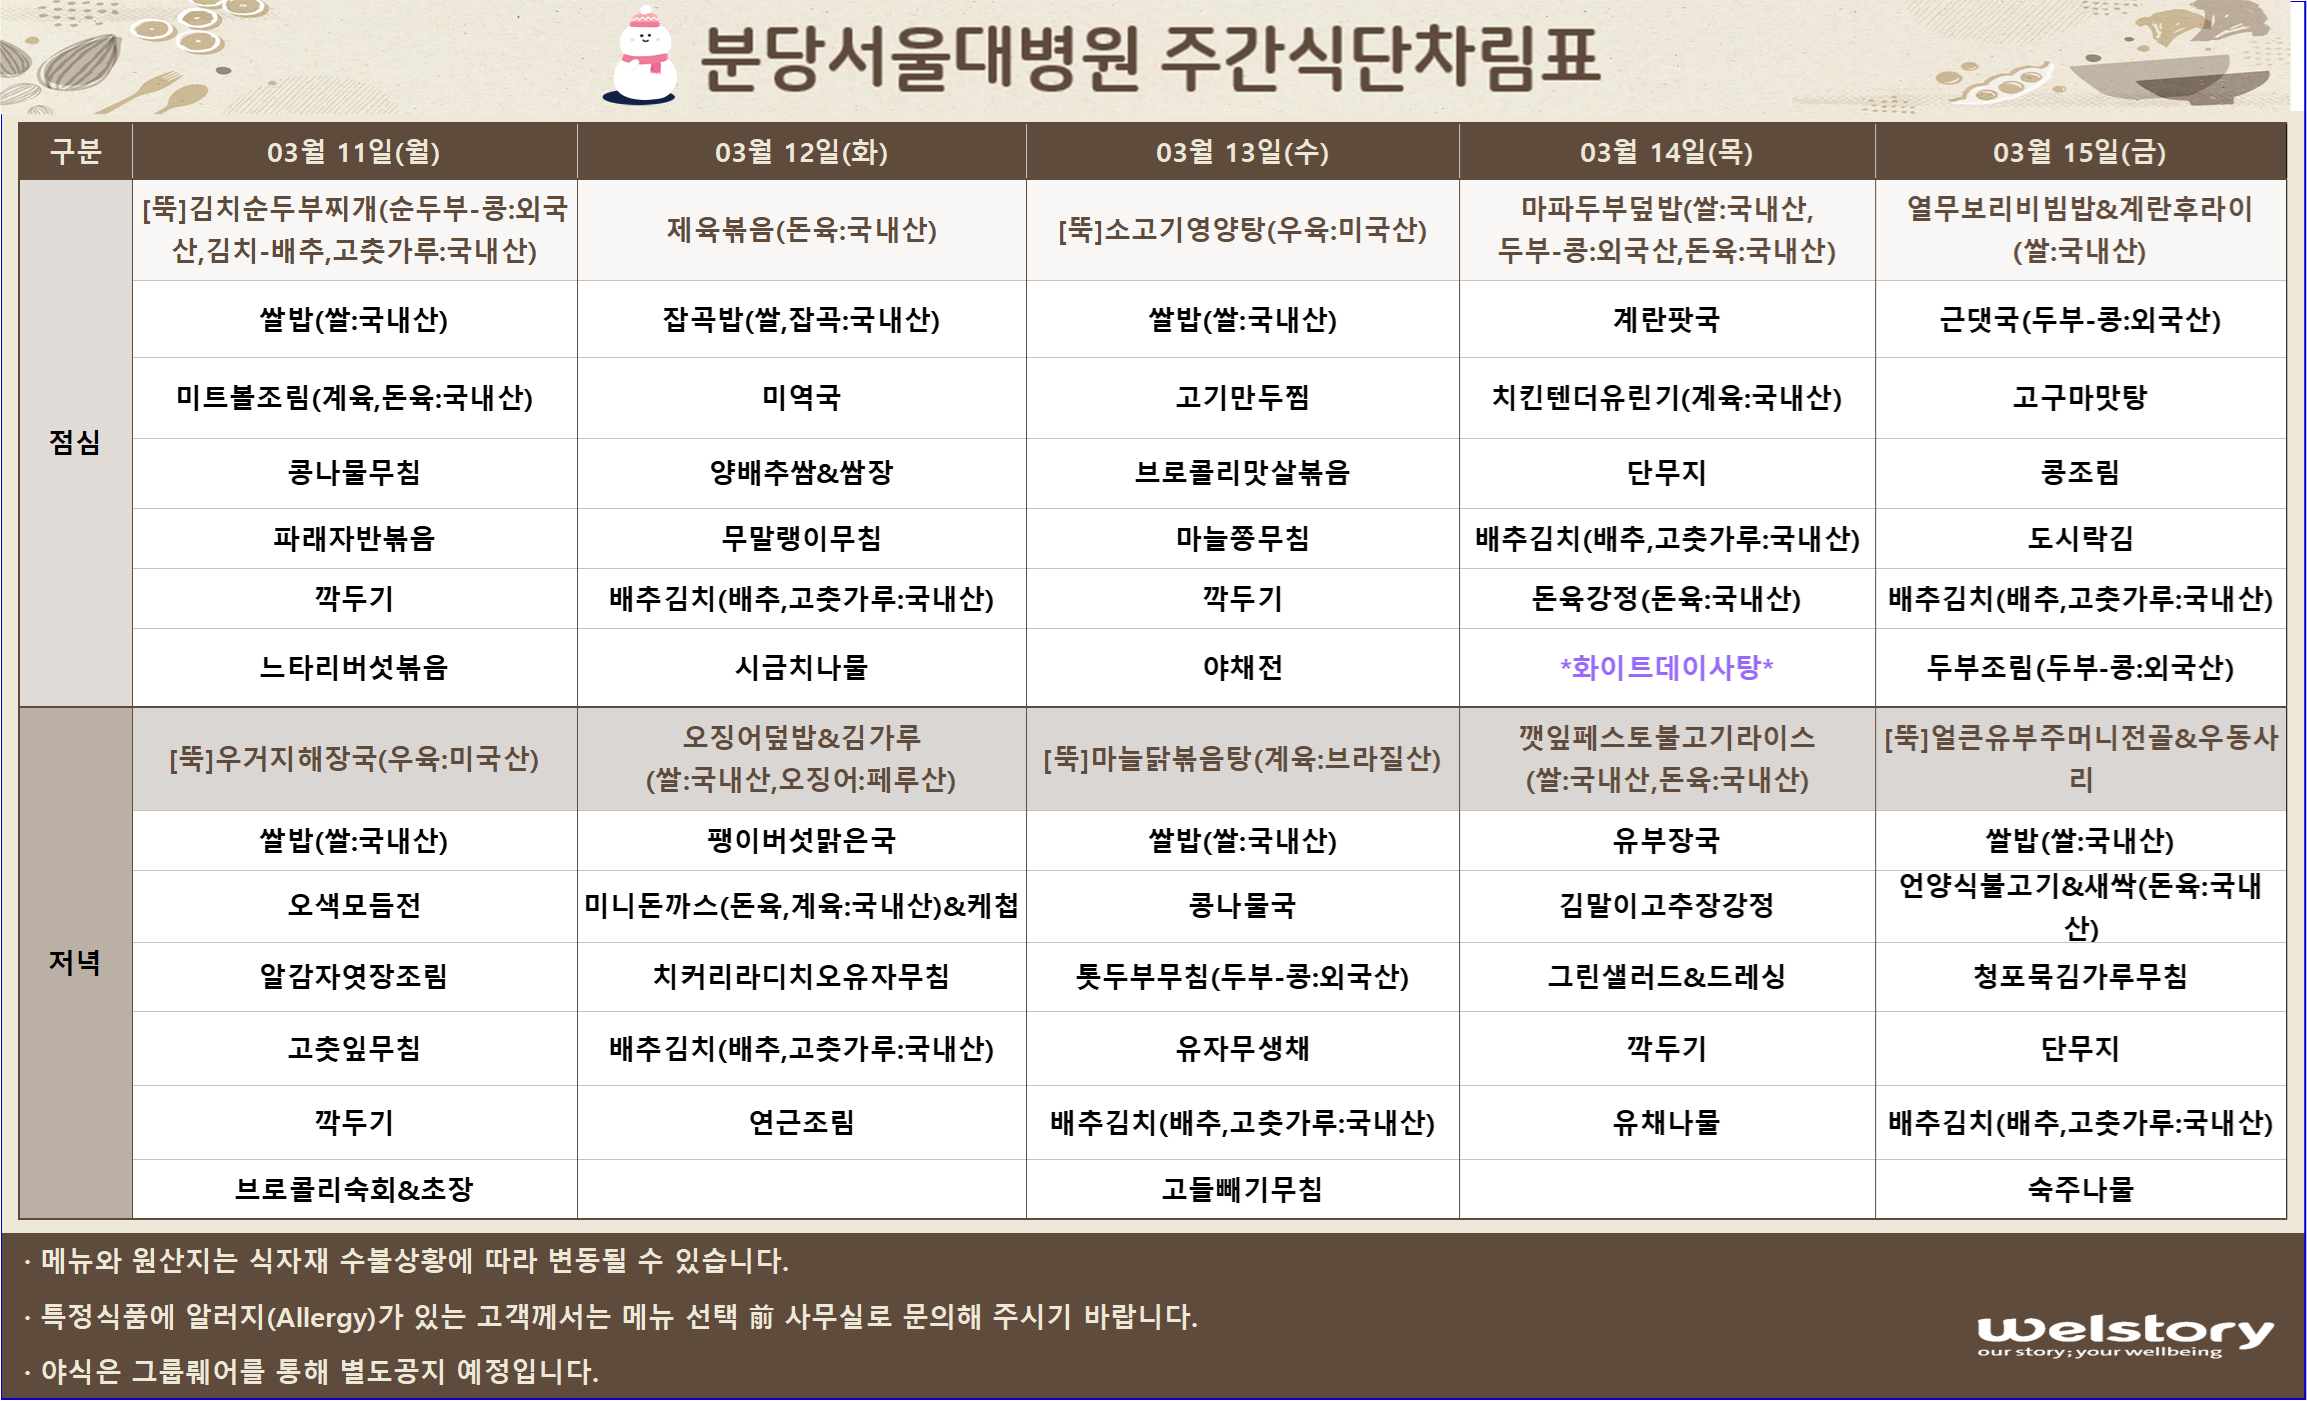
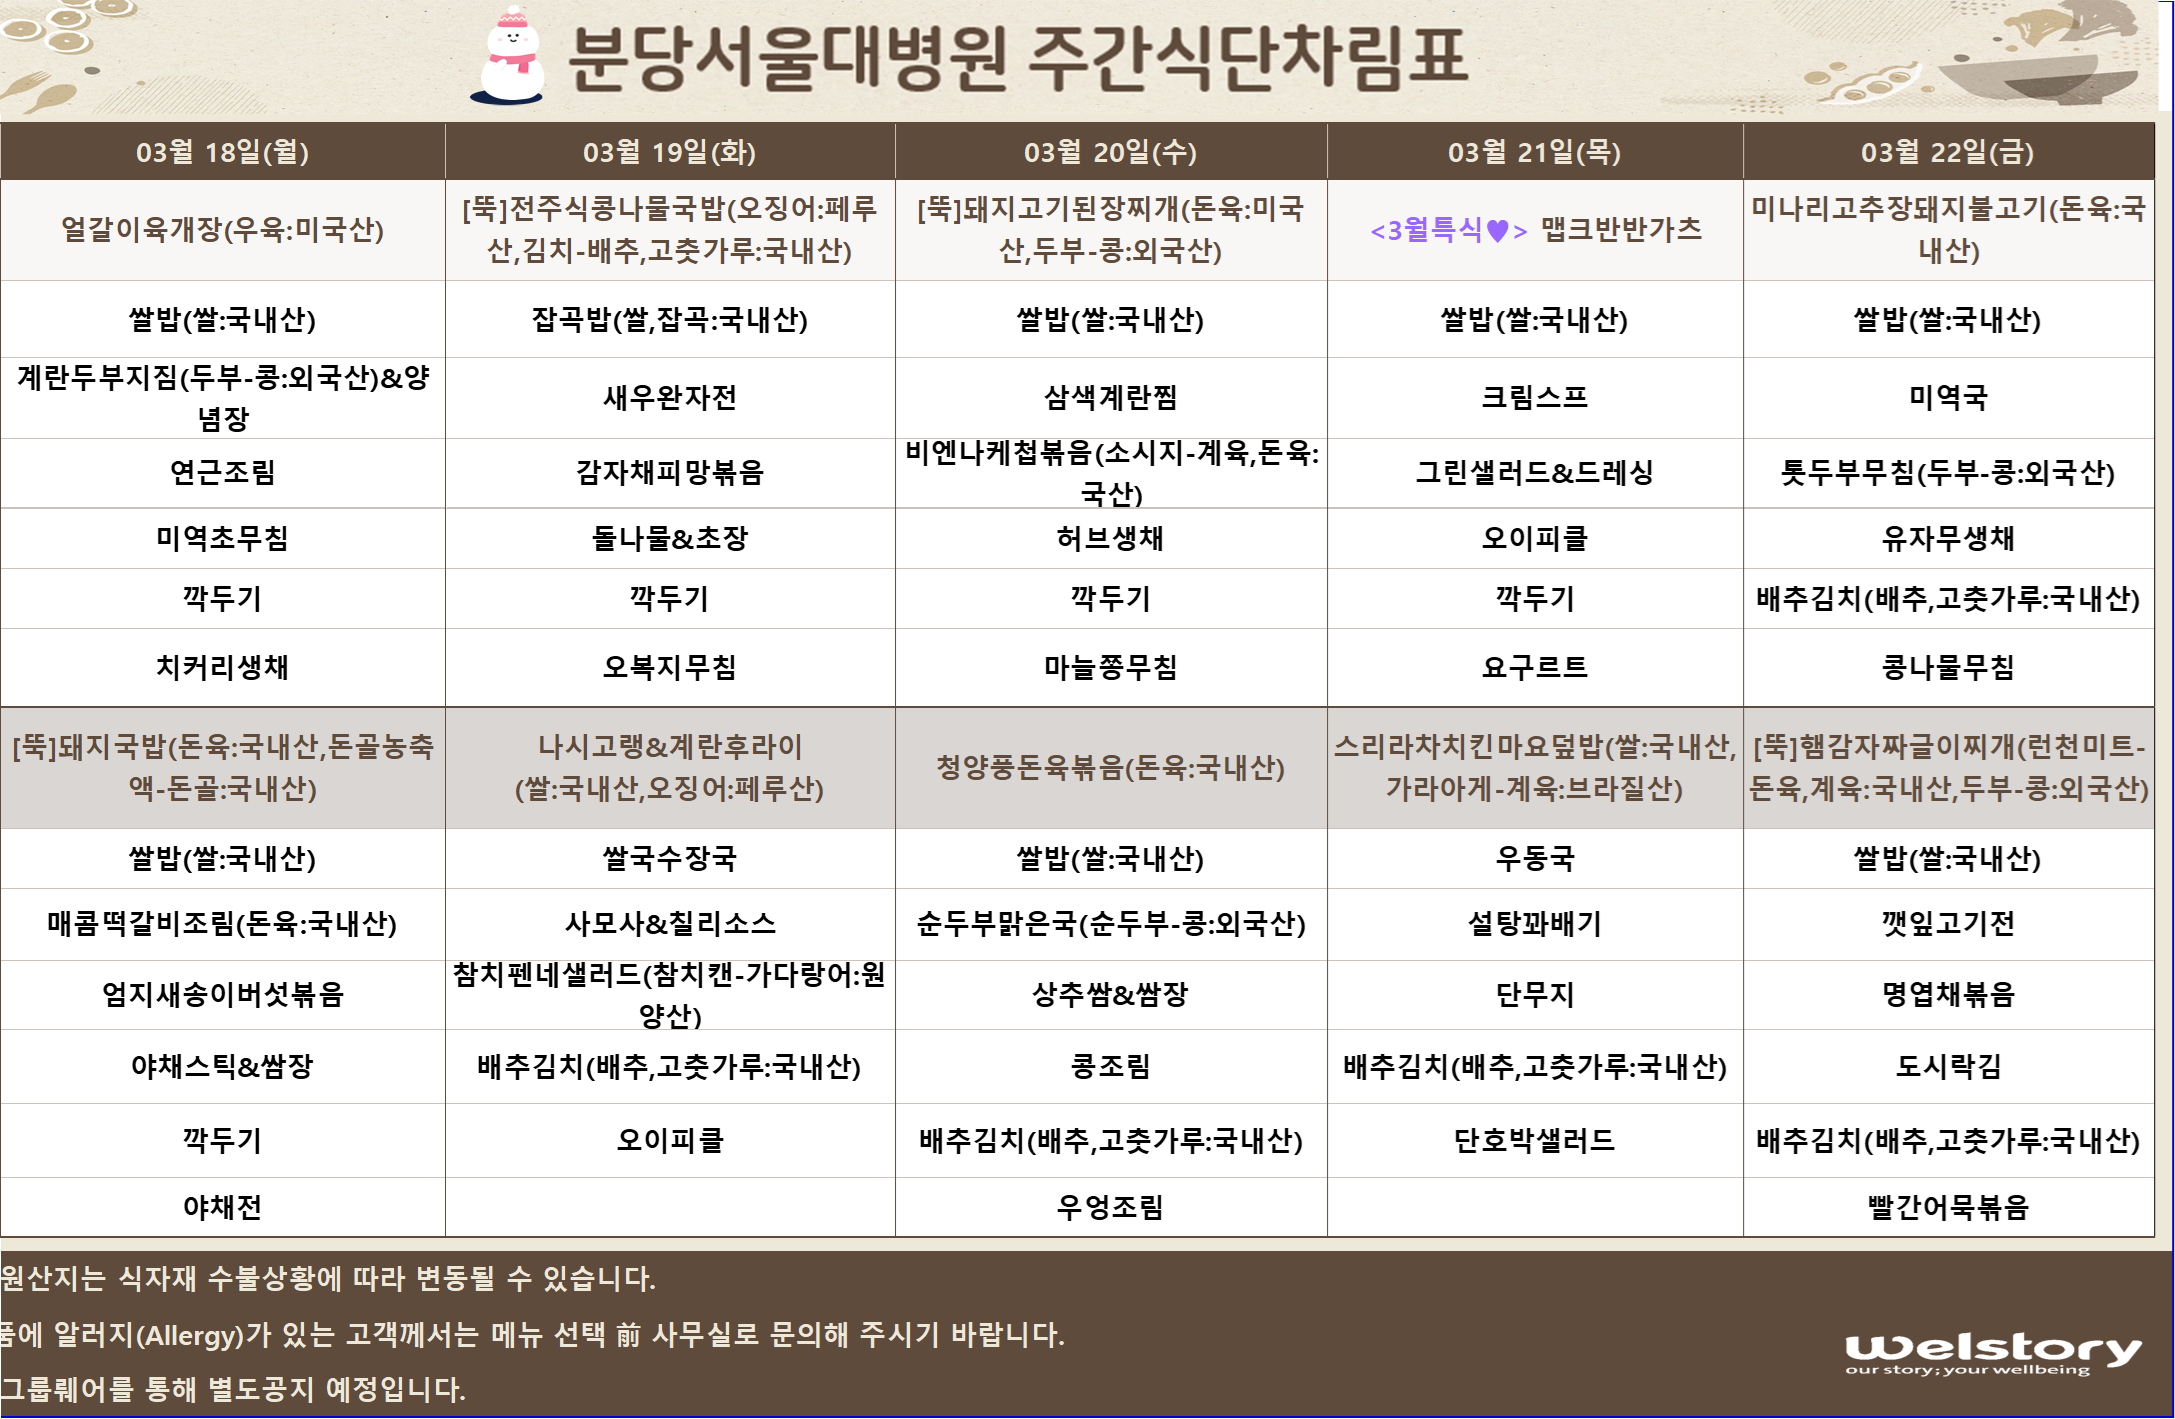
Add files via upload

diff --git a/6/index.html b/6/index.html
@@ -12,13 +12,13 @@
 <h2> 메뉴 업데이트는 주인장 여유가 되면 합니다. (이미지 확대해서 보세요) <br> </h2>
 
 <br>
-<h1> 3월 2주차 </h1>
+<h1> 3월 3주차 </h1>
 <img src="수술.png" width="100%">
 <br>
 
 
 
-<h6> Last update 2024/03/11  </h6>  
+<h6> Last update 2024/03/18  </h6>  
 <h1 >맛있게 드세요.  </h1> 
 
 </body>

diff --git a/1/index.html b/1/index.html
@@ -13,14 +13,14 @@
 
 
 <br>
-<h1> 3월 2주차  </h1>
+<h1> 3월 3주차  </h1>
 <img src="1동.png" width="100%">
 <br>
 
 
 
 
-<h6> Last update 2024/03/11  </h6>  
+<h6> Last update 2024/03/18  </h6>  
 <h1 >맛있게 드세요.  </h1> 
 
 </body>

diff --git a/2/index.html b/2/index.html
@@ -13,13 +13,13 @@
 
 
 <br>
-<h1> 3월 2주차  </h1>
+<h1> 3월 3주차  </h1>
 <img src="HIP.png" width="100%">
 <br>
 
 
 
-<h6> Last update 2024/03/11  </h6>  
+<h6> Last update 2024/03/18  </h6>  
 <h1 >맛있게 드세요.  </h1> 
 
 </body>
